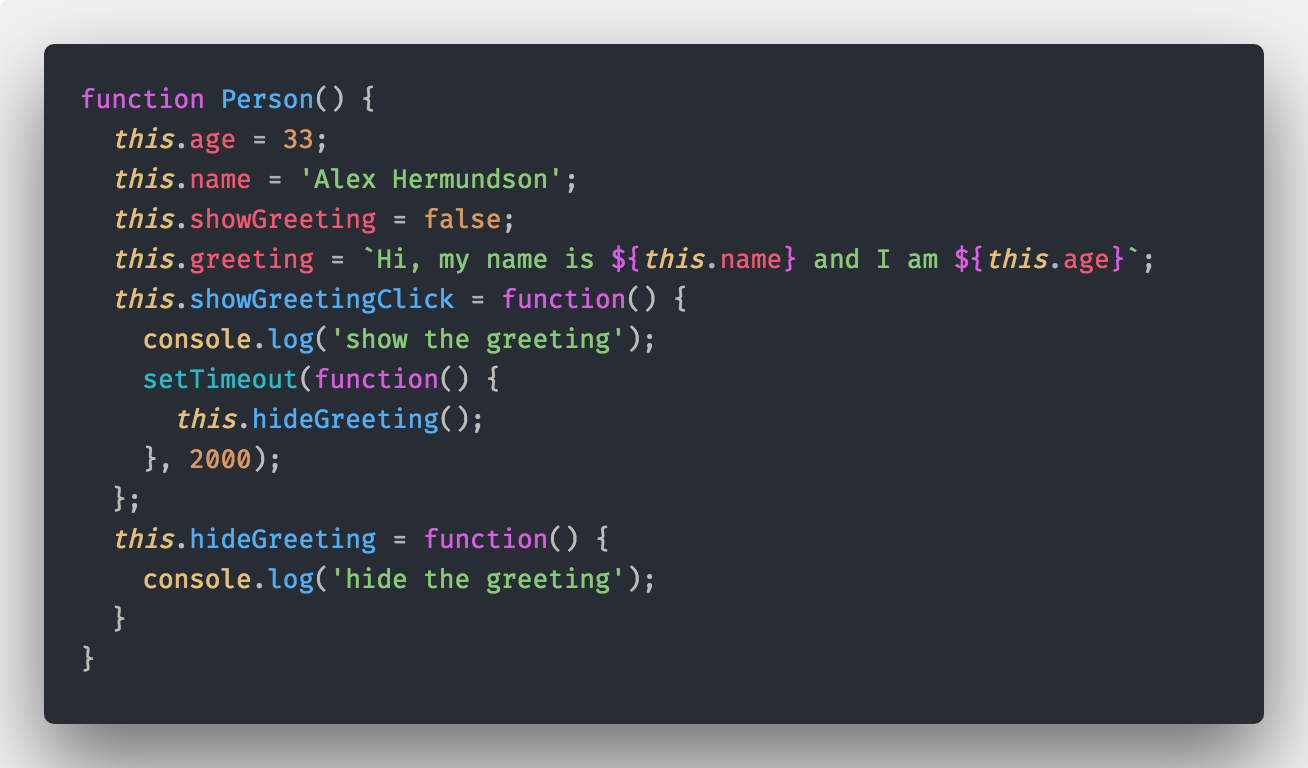
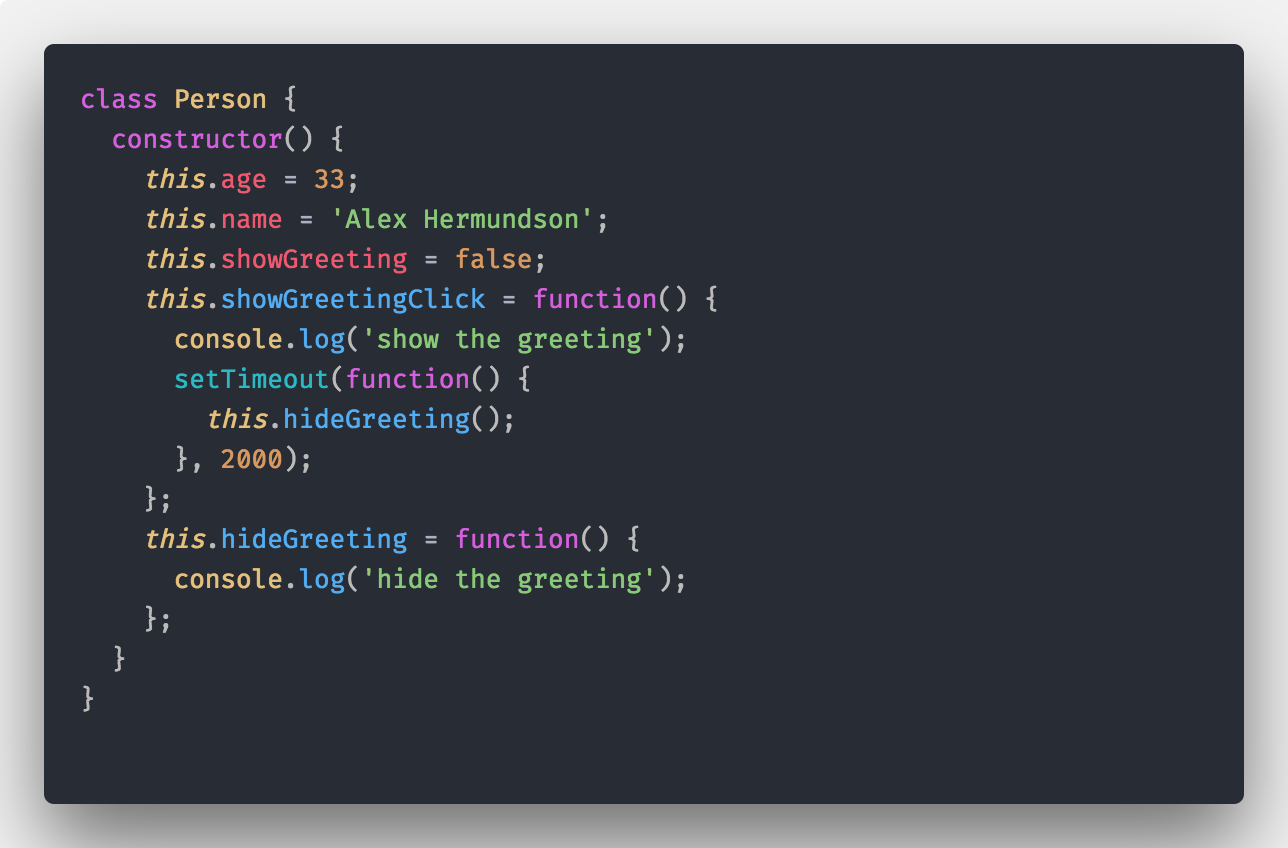
Altered arrow function this images

diff --git a/code.js b/code.js
@@ -1,153 +1,17 @@
-const person = {
-  firstName: 'Alex',
-  lastName: 'Hermundson',
-  address: {
-    street: '1234 Main St.',
-    city: 'Minneapolis',
-    state: 'Minnesota',
-    zip: '12345'
+class Person {
+  constructor() {
+    this.age = 33;
+    this.name = 'Alex Hermundson';
+    this.showGreeting = false;
+    this.greeting = `Hi, my name is ${this.name} and I am ${this.age}`;
+    this.showGreetingClick = () => {
+      console.log(this.greeting);
+      setTimeout(() => {
+        this.hideGreeting();
+      }, 2000);
+    };
+    this.hideGreeting = () => {
+      console.log('hide the greeting');
+    };
   }
-};
-
-const firstName = person.firstName;
-const { firstName, lastName } = person;
-console.log(firstName) // => 'Alex'
-console.log(lastName); // => 'Hermundson'
-
-let firstName = 'Aaron';
-({ firstName } = person);
-console.log(firstName); // => 'Alex'
-
-const { firstName: name } = person;
-console.log(name); // => 'Alex'
-
-const { firstName = 'No name given' } = person;
-
-const {
-  address: { street }
-} = person;
-console.log(street); // => '1234 Main St.
-
-function createTableCellObject(value, colSpan, className, style) {
-  const borderStyle = 'border: 1px solid black;';
-  return {
-    value: value || value === 0 ? value : '',
-    colSpan: colSpan ? colSpan : 1,
-    className: className ? className : '',
-    style: style ? style : borderStyle
-  };
 }
-
-createTableCellObject('$1000', null, null, 'border: 1px solid pink');
-
-createTableCellObject({ value: '$1000', style: 'border: 1px solid pink' });
-
-function createTableCellObject({ value, colSpan, className, style }) {
-  const borderStyle = 'border: 1px solid black;';
-  return {
-    value: value || value === 0 ? value : '',
-    colSpan: colSpan ? colSpan : 1,
-    className: className ? className : '',
-    style: style ? style : borderStyle
-  };
-}
-
-function createTableCellObject({
-  value,
-  colSpan = 1,
-  className = '',
-  style = 'border: 1px solid black;'
-}) {
-  return {
-    value: value || value === 0 ? value : '',
-    colSpan: colSpan,
-    className: className,
-    style: style
-  };
-}
-
-const numbers = [1, 2, 3, 4, 5];
-const [one, two] = numbers;
-console.log(one); // => 1
-console.log(two); // => 2
-const [, , three] = numbers;
-console.log(three); // => 3
-
-const person = {
-  firstName: 'Alex',
-  lastName: 'Hermundson',
-  address: {
-    street: '1234 Main St.',
-    city: 'Minneapolis',
-    state: 'Minnesota',
-    zip: '12345'
-  },
-  kids: ['Anders', 'Nora']
-};
-
-const {
-  address: city,
-  kids: [firstKid, secondKid]
-} = person;
-console.log(city); // => 'Minneapolis'
-console.log(firstKid); // => 'Anders'
-console.log(secondKid); // => 'Nora'
-
-const greeting = 
-    `Hi. My name is ${person.firstName.toLowerCase()} ${person.lastName.toLowerCase()}`;
-
-const multiLineGreeting =
-  'Hi. My ' + 'name is ' + person.firstName + ' ' + person.lastName;
-
-const multilineGreeting = `Hi. My 
-name is 
-${person.firstName}
-${person.lastName}`;
-
-const htmlString = `
-    <div>
-        <h1>${person.firstName}</h1>
-    </div>
-`;
-
-function templateTag(strings, ...values) {
-  console.log(strings);
-  console.log(values);
-}
-
-const htmlString = templateTag`
-    <div>
-        <h1>${person.firstName}</h1>
-    </div>
-`;
-
-function templateTagFunction(strings, ...values) {
-  values.forEach(value => {
-    if (typeof value === 'function') {
-      value();
-    }
-  });
-}
-templateTagFunction`Execute this function ${() =>
-  console.log('Function was executed')}`;
-
-const styledDiv = styled`
-    color: ${props => (props.primary ? 'blue' : 'red')},
-    font-family: 'Roboto',
-    border: 1px solid pink
-`;
-
-<li>
-                  Bindings using var are Function scoped whereas bindings using
-                  let are block scoped
-                </li>
-                <li>var is hoisted</li>
-                <li>var is hoisted</li>
-                <li>What about const?</li>
-
-// => var is hoisted
-// => Bindings using var are Function scoped whereas bindings using let are block scoped
-// => var is hoisted
-// => What about const?
-
-// => 

diff --git a/public/index.html b/public/index.html
@@ -1,16 +1,22 @@
 <!DOCTYPE html>
 <html lang="en">
-  <head>
-    <meta charset="utf-8">
-    <meta name="viewport" content="width=device-width, initial-scale=1, shrink-to-fit=no">
-    <meta name="theme-color" content="#000000">
-    <!--
+
+<head>
+  <style>
+    body {
+      font-family: 'Roboto'
+    }
+  </style>
+  <meta charset="utf-8">
+  <meta name="viewport" content="width=device-width, initial-scale=1, shrink-to-fit=no">
+  <meta name="theme-color" content="#000000">
+  <!--
       manifest.json provides metadata used when your web app is added to the
       homescreen on Android. See https://developers.google.com/web/fundamentals/engage-and-retain/web-app-manifest/
     -->
-    <link rel="manifest" href="%PUBLIC_URL%/manifest.json">
-    <link rel="shortcut icon" href="%PUBLIC_URL%/favicon.ico">
-    <!--
+  <link rel="manifest" href="%PUBLIC_URL%/manifest.json">
+  <link rel="shortcut icon" href="%PUBLIC_URL%/favicon.ico">
+  <!--
       Notice the use of %PUBLIC_URL% in the tags above.
       It will be replaced with the URL of the `public` folder during the build.
       Only files inside the `public` folder can be referenced from the HTML.
@@ -19,14 +25,15 @@
       work correctly both with client-side routing and a non-root public URL.
       Learn how to configure a non-root public URL by running `npm run build`.
     -->
-    <title>ES6 Lunch and Learn</title>
-  </head>
-  <body>
-    <noscript>
-      You need to enable JavaScript to run this app.
-    </noscript>
-    <div id="root"></div>
-    <!--
+  <title>ES6 Lunch and Learn</title>
+</head>
+
+<body>
+  <noscript>
+    You need to enable JavaScript to run this app.
+  </noscript>
+  <div id="root"></div>
+  <!--
       This HTML file is a template.
       If you open it directly in the browser, you will see an empty page.
 
@@ -36,5 +43,6 @@
       To begin the development, run `npm start` or `yarn start`.
       To create a production bundle, use `npm run build` or `yarn build`.
     -->
-  </body>
+</body>
+
 </html>

diff --git a/src/LetVsVar.js b/src/LetVsVar.js
@@ -9,7 +9,7 @@ import FlatButton from 'material-ui/FlatButton';
 import Arrow from './Arrow';
 
 const imageStyles = {
-  width: '95%',
+  width: '75%',
   margin: '0 auto'
 };
 
@@ -31,17 +31,20 @@ const LetVsVar = props => {
       <Tabs>
         <Tab label="Let vs Var">
           <div style={{ height: '100vh' }}>
-            <h1 style={{ textAlign: 'center' }}>Let vs Var</h1>
-            <div style={{ margin: '0 auto' }}>
-              <ul style={{ listStyle: 'none' }}>
-                <li>
-                  Bindings using var are Function scoped whereas bindings using
-                  let are block scoped
-                </li>
-                <li>var is hoisted</li>
-                <li>Loop bindings</li>
-                <li>What about const?</li>
-              </ul>
+            <div
+              style={{
+                display: 'flex',
+                flexDirection: 'column',
+                justifyContent: 'center',
+                alignItems: 'center'
+              }}
+            >
+              <h1>Let vs Var</h1>
+              <img
+                src="/img/letvsvardiff.png"
+                alt="Hoisting and Scoping"
+                style={{ ...imageStyles, marginTop: '10px' }}
+              />
             </div>
           </div>
         </Tab>
